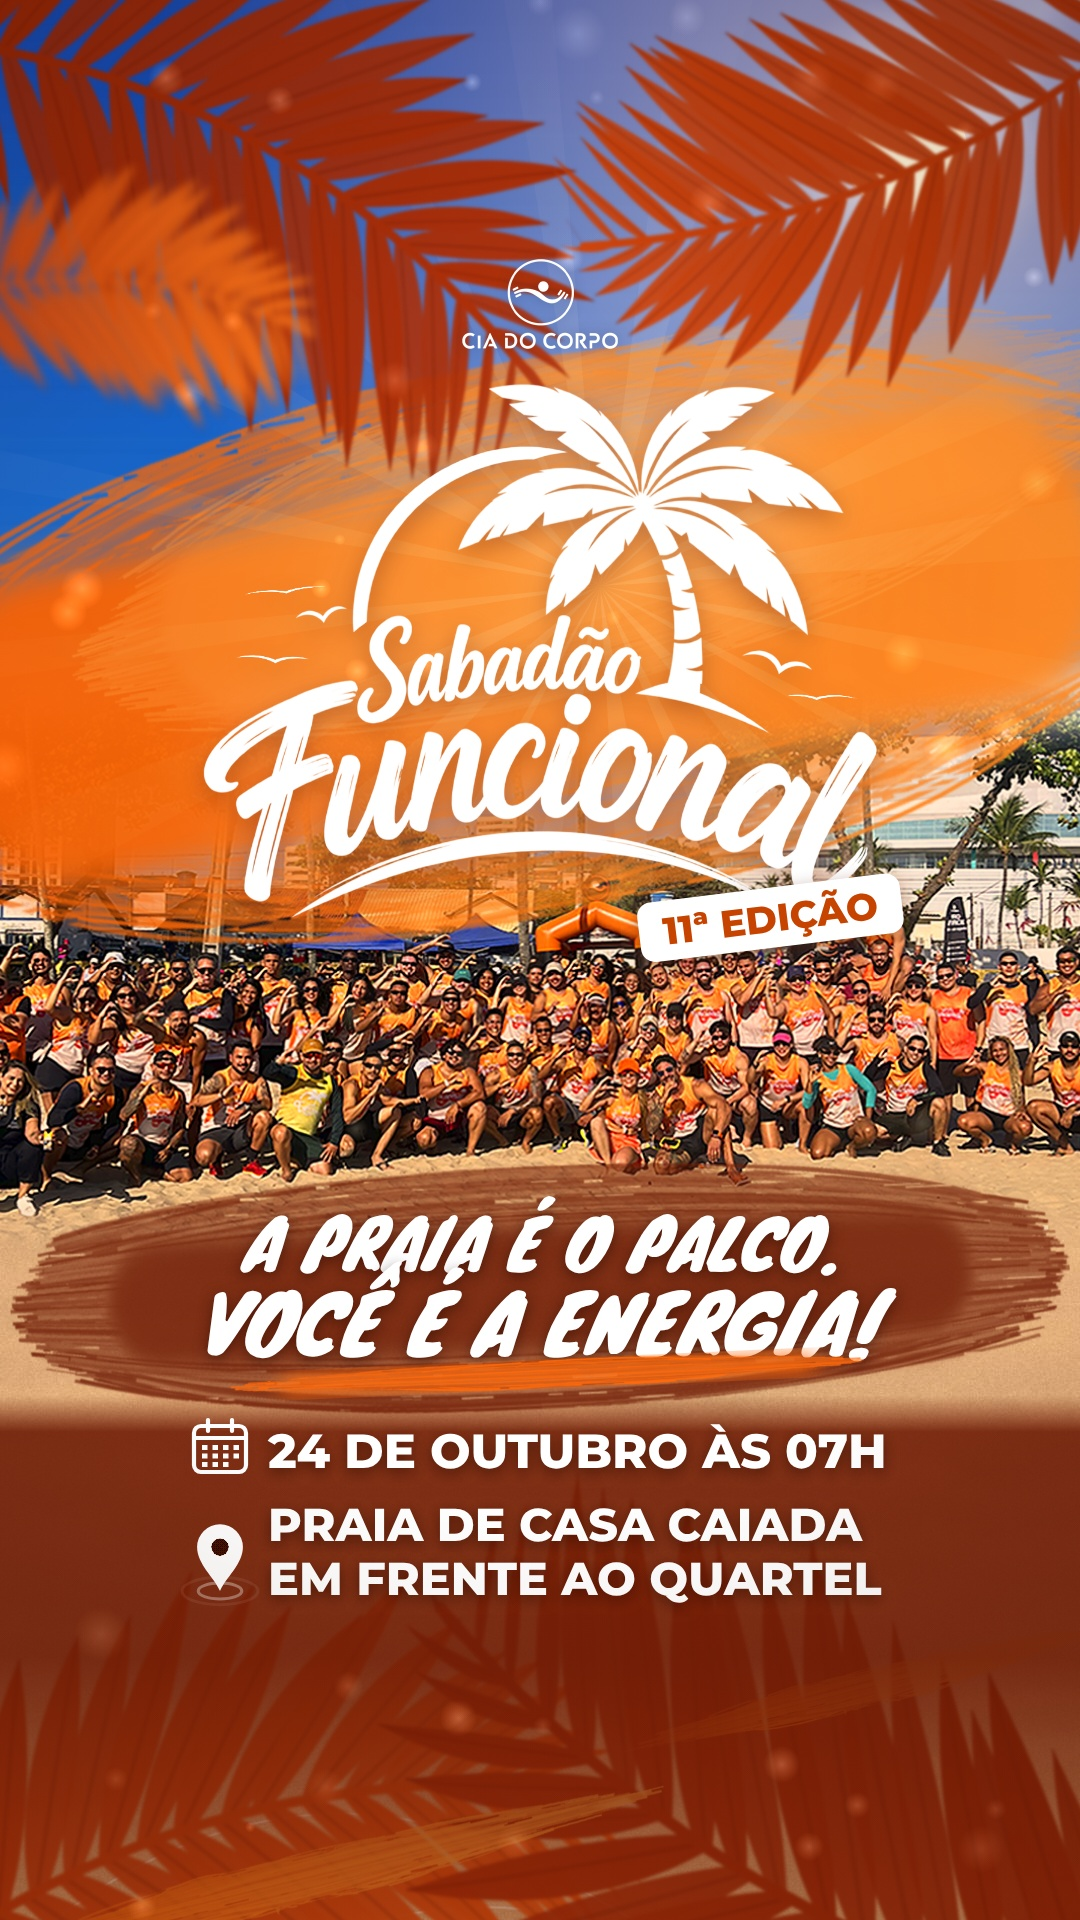
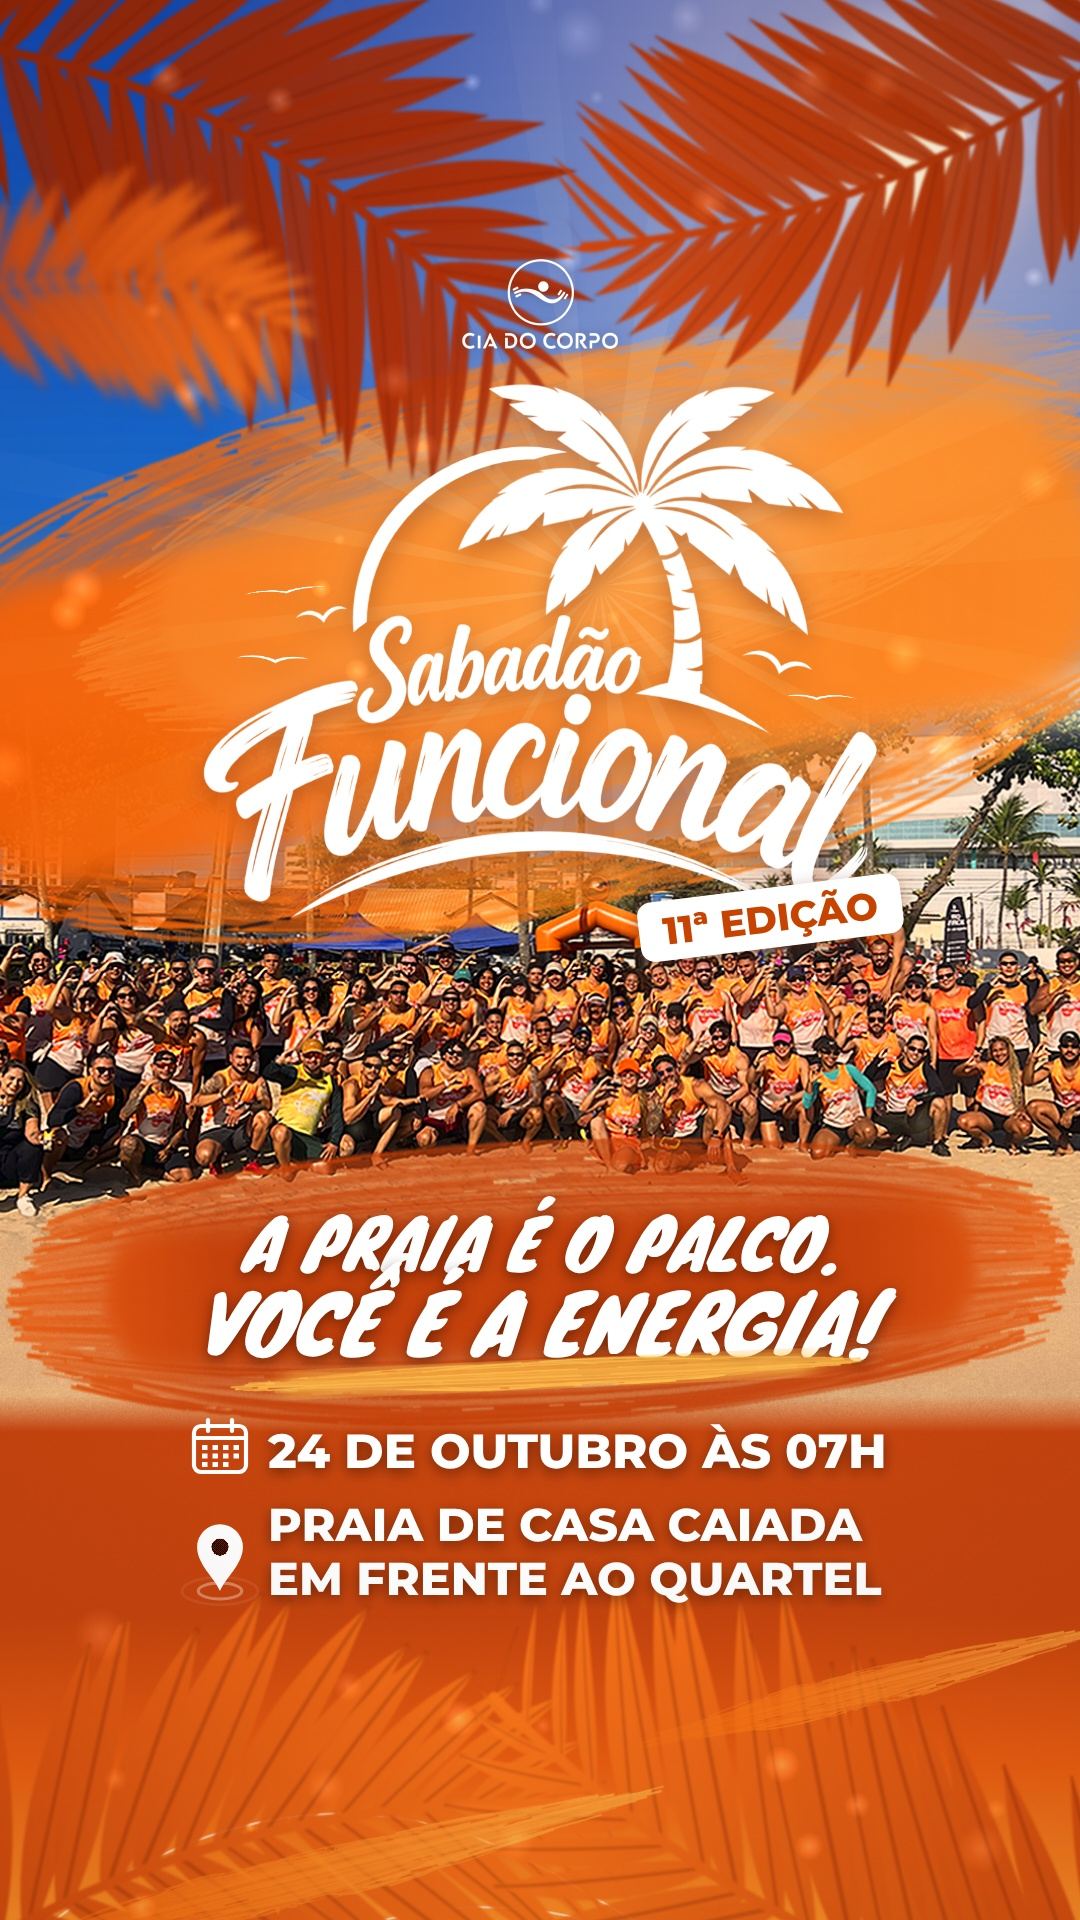
Brighten final layout support bands and bottom leaves
Slogan band and info panel move from dark brown to the vivid burnt
orange of the art (white text stays at ~5.3:1), bottom fronds and
streaks drawn in warm sunlit tones over a panel that gets brighter
towards the bottom, lighter vignette.

Claude-Session: https://claude.ai/code/session_01Dn6hQhGwoSvayfpcAMo7Gh

diff --git a/video/sabadao-funcional/project/js/main.js b/video/sabadao-funcional/project/js/main.js
@@ -22,7 +22,8 @@
     orangeTag: "#c74300",   // tag text: 4.9:1 on the white pill
     leafDeep: "#b3320a",    // reddish orange of the leaves
     leafTip: "#ef5a10",
-    burnt: "112,28,6",       // support bands behind text (rgb)
+    burnt: "196,62,8",       // vivid burnt orange behind text (white = 5.2:1)
+    bandEdge: "236,90,12",   // brighter orange at the band ends
     sky: M.colors.sky_low,
     sand: M.colors.sand,
     white: "#ffffff",
@@ -810,23 +811,12 @@
       g.restore();
     }
 
-    // ---- slogan on a burnt brush band
+    // ---- slogan on a burnt-orange brush band
     const sp1 = prog(t, T.slogan - 0.12, 0.45);
-    brush(g, IMG.brushBand, 540, (FINAL.slogan.y1 + FINAL.slogan.y2) / 2 - 22, 1060, 250, -2.5, sp1, 1);
+    brush(g, IMG.brushBand, 540, (FINAL.slogan.y1 + FINAL.slogan.y2) / 2 - 28, 1070, 290, -2.5, sp1, 1);
     revealText(g, "A PRAIA É O PALCO.", 540, FINAL.slogan.y1, "68px Knewave", prog(t, T.slogan, 0.5), { align: "center", skew: -8 });
     revealText(g, "VOCÊ É A ENERGIA!", 540, FINAL.slogan.y2, "80px Knewave", prog(t, T.slogan + 0.14, 0.5), { align: "center", skew: -8 });
     brush(g, IMG.brushUnder, 548, FINAL.slogan.y2 + 22, 640, 30, -2.5, prog(t, T.slogan + 0.32, 0.4), 1);
-
-    // bottom fronds + wave lines (decorative zone below the info)
-    g.save();
-    g.globalAlpha = 0.5;
-    g.drawImage(IMG.waves, -40, 1745, IMG.waves.width * 0.95, IMG.waves.height * 0.95);
-    g.restore();
-    const bIn = eOutCubic(prog(t, T.final + 0.2, 0.9));
-    frond(g, FR.warmA, -140 - 200 * (1 - bIn), 2010, -24 + 2 * sw, 0.95, { blur: 1.5 });
-    frond(g, FR.deepA, 1240 + 200 * (1 - bIn), 2030, 204 - 2 * sw, 1.0, { blur: 1.5 });
-    brush(g, IMG.brushStreak, 300, 1880, 760, 60, -14, prog(t, T.final + 0.4, 0.5), 0.9);
-    brush(g, IMG.brushStreak, 860, 1690, 520, 44, -14, prog(t, T.final + 0.55, 0.5), 0.8);
 
     // ---- info panel (burnt gradient) + bottom decoration
     const ip = eOutCubic(prog(t, T.date - 0.2, 0.5));
@@ -834,13 +824,24 @@
       const top = 1395 + 60 * (1 - ip);
       const gr = g.createLinearGradient(0, top, 0, H);
       gr.addColorStop(0, `rgba(${C.burnt},0)`);
-      gr.addColorStop(0.07, `rgba(${C.burnt},${0.88 * ip})`);
-      gr.addColorStop(0.5, `rgba(${C.burnt},${0.88 * ip})`);
-      gr.addColorStop(0.75, `rgba(${C.burnt},${0.6 * ip})`);
-      gr.addColorStop(1, `rgba(${C.burnt},${0.25 * ip})`);
+      gr.addColorStop(0.07, `rgba(${C.burnt},${0.95 * ip})`);
+      gr.addColorStop(0.42, `rgba(${C.burnt},${0.95 * ip})`);
+      gr.addColorStop(0.7, `rgba(${C.bandEdge},${0.95 * ip})`);
+      gr.addColorStop(1, `rgba(255,140,30,${0.9 * ip})`);
       g.fillStyle = gr;
       g.fillRect(0, top, W, H - top);
     }
+    // bottom fronds + wave lines (decorative zone below the info)
+    g.save();
+    g.globalAlpha = 0.7;
+    g.drawImage(IMG.waves, -40, 1745, IMG.waves.width * 0.95, IMG.waves.height * 0.95);
+    g.restore();
+    const bIn = eOutCubic(prog(t, T.final + 0.2, 0.9));
+    frond(g, FR.warmB, -140 - 200 * (1 - bIn), 2030, -24 + 2 * sw, 1.2, { blur: 1.5 });
+    frond(g, FR.warmB, 1220 + 200 * (1 - bIn), 2040, 202 - 2 * sw, 1.25, { blur: 1.5 });
+    brush(g, IMG.brushStreak, 300, 1880, 760, 60, -14, prog(t, T.final + 0.4, 0.5), 0.9);
+    brush(g, IMG.brushStreak, 860, 1690, 520, 44, -14, prog(t, T.final + 0.55, 0.5), 0.8);
+
     // date + local, each on its beat, as one centred column
     g.font = "800 48px Montserrat";
     const dTxt = "24 DE OUTUBRO ÀS 07H";
@@ -949,7 +950,7 @@
     // gentle vignette for depth
     const vg = g.createRadialGradient(540, 900, 600, 540, 960, 1300);
     vg.addColorStop(0, "rgba(60,15,0,0)");
-    vg.addColorStop(1, "rgba(60,15,0,0.28)");
+    vg.addColorStop(1, "rgba(60,15,0,0.16)");
     g.fillStyle = vg;
     g.fillRect(0, 0, W, H);
     g.restore();
@@ -972,8 +973,15 @@
       return gr;
     });
     IMG.brushBigLt = tint(IMG.bBig, "#ff9a3c");
-    IMG.brushBand = tint(IMG.bBand, `rgba(${C.burnt},0.88)`);
-    IMG.brushUnder = tint(IMG.bUnder, "#ff6a0d");
+    IMG.brushBand = tint(IMG.bBand, (g, w) => {
+      const gr = g.createLinearGradient(0, 0, w, 0);
+      gr.addColorStop(0, `rgba(${C.bandEdge},0.96)`);
+      gr.addColorStop(0.2, `rgba(${C.burnt},0.97)`);
+      gr.addColorStop(0.8, `rgba(${C.burnt},0.97)`);
+      gr.addColorStop(1, `rgba(${C.bandEdge},0.96)`);
+      return gr;
+    });
+    IMG.brushUnder = tint(IMG.bUnder, "#ffc04a");
     IMG.brushStreak = tint(IMG.bStreak, (g, w, h) => {
       const gr = g.createLinearGradient(0, 0, w, 0);
       gr.addColorStop(0, "rgba(255,120,20,0)"); gr.addColorStop(0.3, "#ff7a14"); gr.addColorStop(1, "#ffb347");
